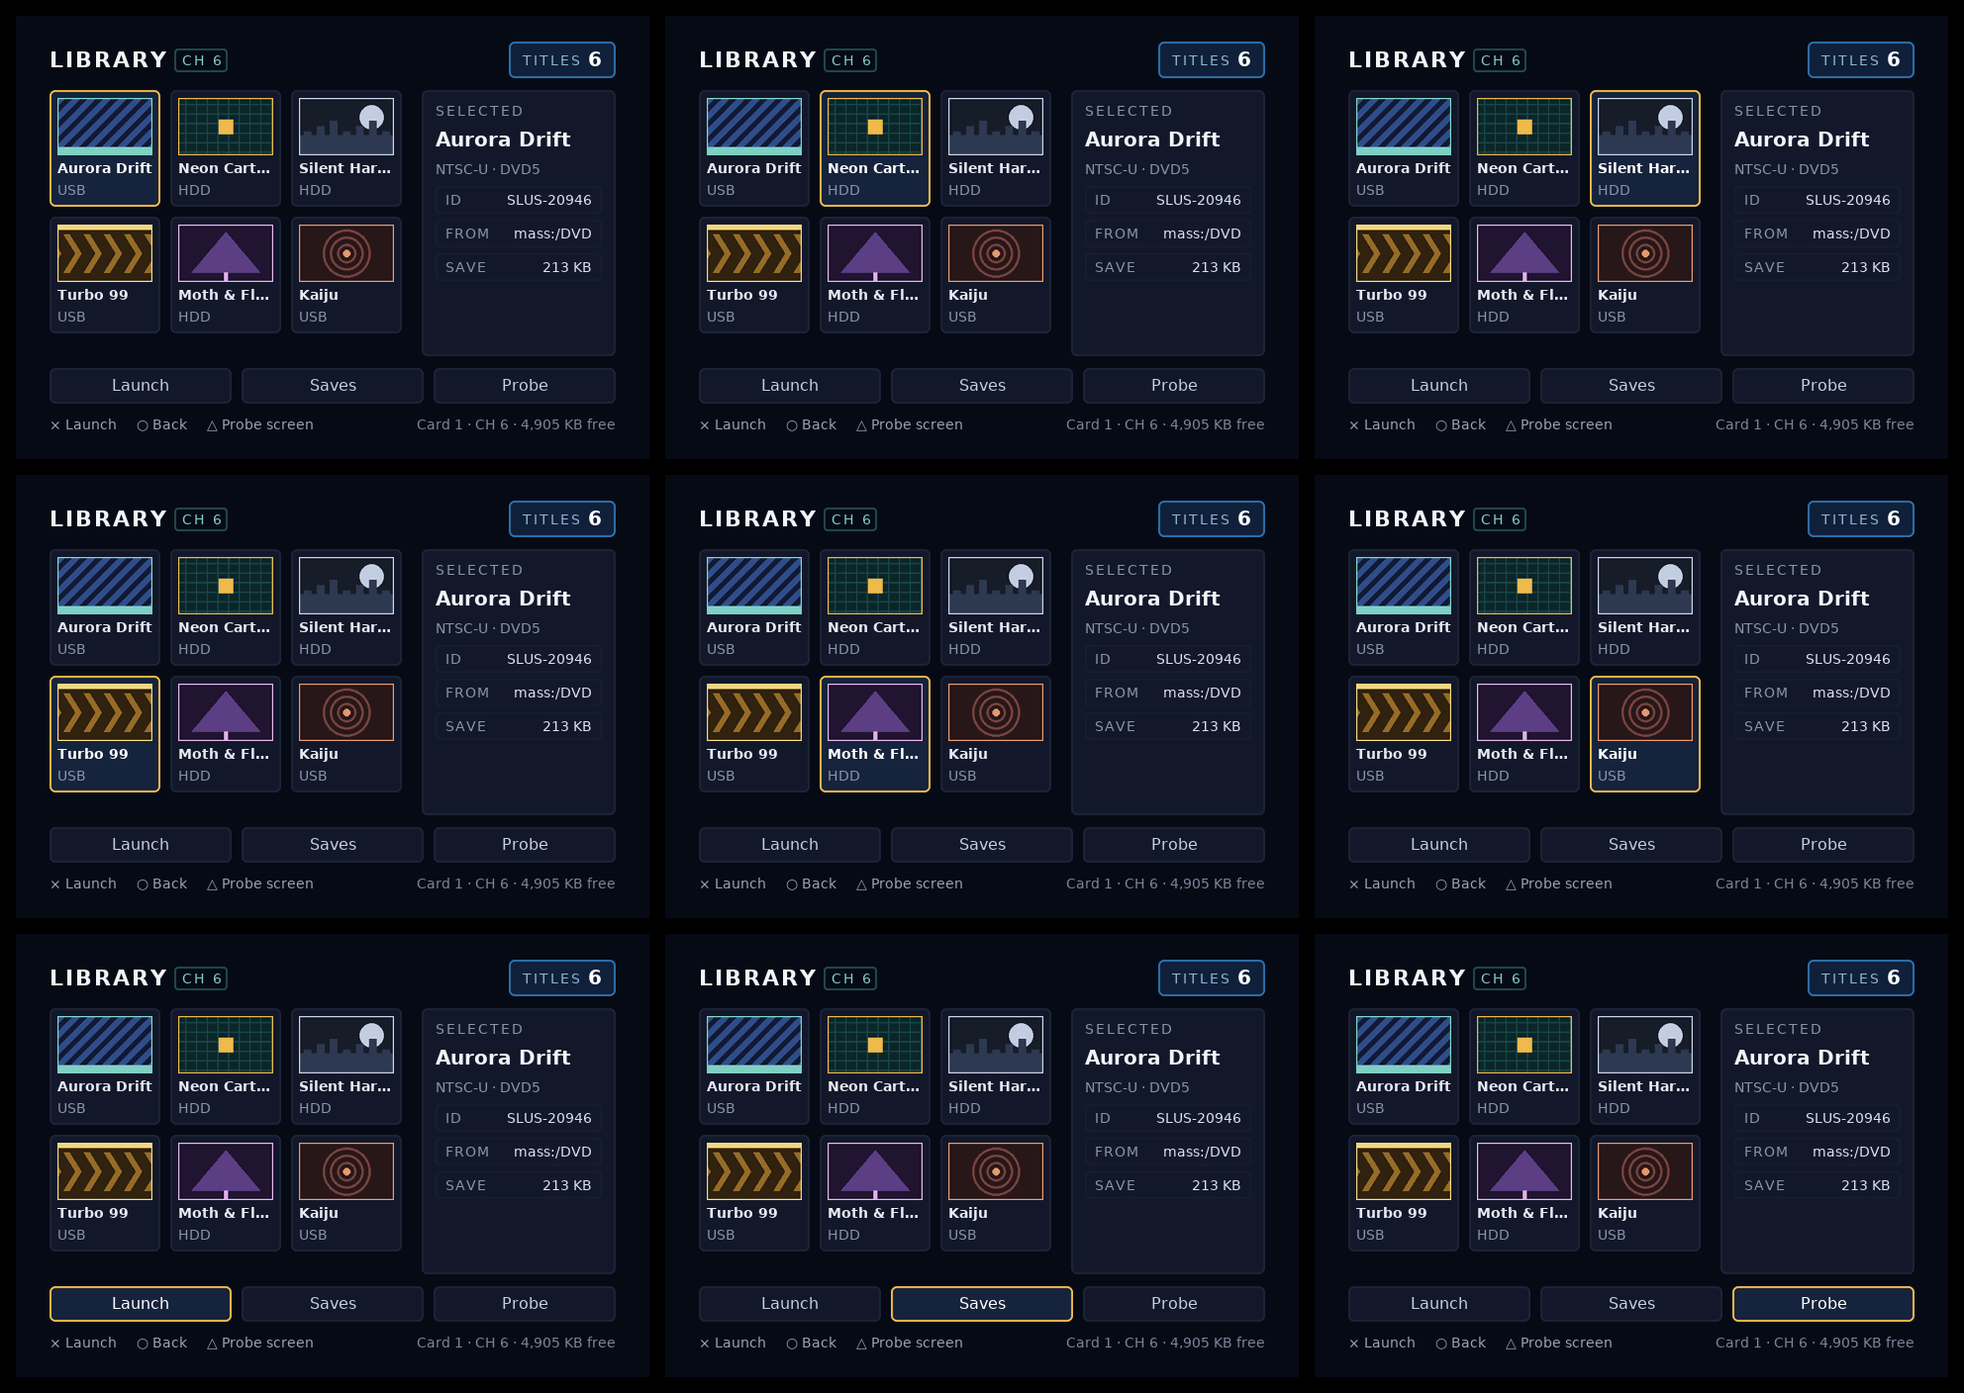
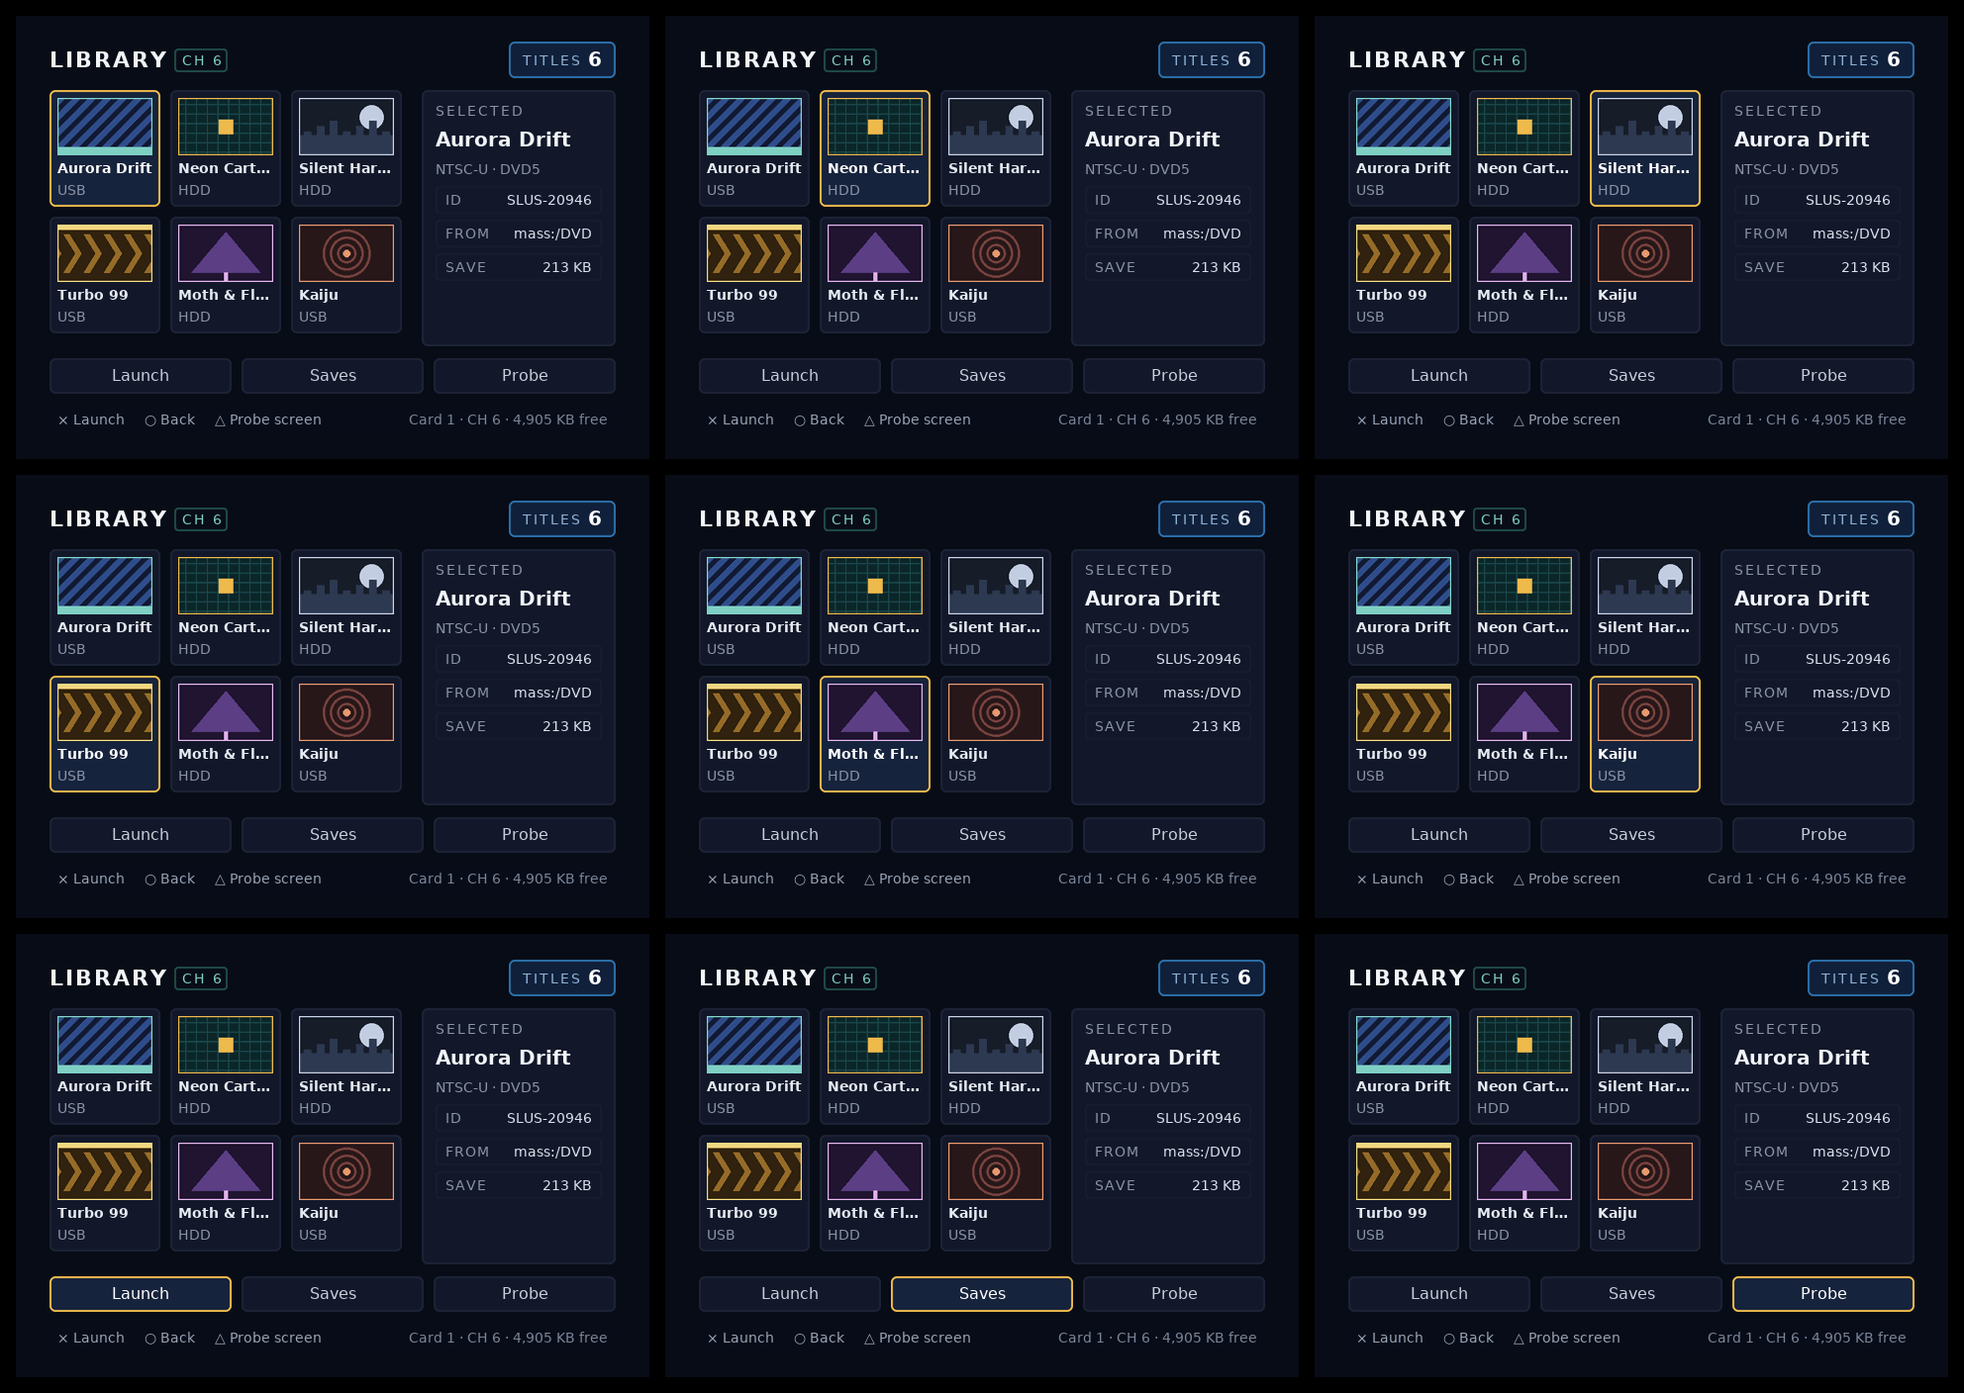
Show the channel-6 browser as the overlay it actually is
The example is meant to be the template people copy when they try this
system, and every preview it shipped rendered the blob over flat navy —
correct as bring-up ground truth, but it hid the design. This UI has no
background of its own beyond a translucent scrim; ps2ui_render() draws
into whatever is already in the framebuffer, so with the host app's
clear skipped the game stays visible underneath.

preview_in_game.py renders the blob onto full transparency and
composites it over a game frame, which is the operation the GS performs.
The frame is drawn from flat shapes rather than captured: shipping a
real game's pixels into a repository is a licensing problem, and a
synthetic frame is the better test because the bright horizon band can
be put exactly where the cover grid is.

Doing that exposed two things the flat-navy previews could not:

- The scrim was 90% opaque, which is not an overlay, it is a background
  with extra steps. Now 60%.
- The footer was the one row of text with no panel under it, and over a
  bright road it stopped being readable. It gets a backing bar, square
  so it bakes as a plain quad and costs no nine-patch texture. The rule
  the README now states: the scrim sets the mood, panels guarantee
  legibility.

Worth knowing: the CRT contrast lint composites text against the nearest
rect's raw RGB and ignores that rect's alpha, so a 60% scrim lints
identically to an opaque one. It cannot see this class of problem, which
[…]

diff --git a/examples/channel6/ui/channel6.css b/examples/channel6/ui/channel6.css
@@ -11,17 +11,17 @@
  * shimmers on an interlaced CRT), nothing below 14px, no saturated reds,
  * and :focus only ever repaints.
  *
- * Two budgets are load-bearing here, and neither is enforced by the
- * compiler: PS2UI_MAX_TEXTURES (32) and PS2UI_MAX_SLOTS (16) in
- * ps2ui.h. Every distinct rounded-box *style* bakes one nine-patch
- * texture and every distinct (size, weight) bakes one glyph atlas, so
- * this sheet deliberately reuses a handful of each rather than styling
- * every element freely. check.py fails the build if a change pushes
- * either count past what the runtime will load. */
+ * Two budgets are load-bearing here: PS2UI_MAX_TEXTURES (32) and
+ * PS2UI_MAX_SLOTS (16) in ps2ui.h. Every distinct rounded-box *style*
+ * bakes one nine-patch texture and every distinct (size, weight) bakes
+ * one glyph atlas, so this sheet deliberately reuses a handful of each
+ * rather than styling every element freely. Since B10 the baker fails
+ * the bake outright when a change would push either count past what
+ * ps2ui_load() accepts, and prints the occupancy on every build. */
 
 .screen {
   flex-direction: column;
-  background: #060a14e6;
+  background: #060a1499;
   padding: 26px 34px;
   gap: 12px;
 }
@@ -223,10 +223,17 @@ h1 {
 
 /* ------------------------------------------------------------ footer */
 
+/* The footer is the one row of text with no panel under it, so over a
+ * bright game frame it is the first thing to lose contrast. It gets its
+ * own backing bar — square, so it bakes as a plain quad and costs no
+ * nine-patch texture. This is the general rule for an overlay: the scrim
+ * sets the mood, panels guarantee legibility. */
 .footer {
   flex-direction: row;
   align-items: center;
   justify-content: space-between;
+  background: #070c18e6;
+  padding: 5px 8px;
 }
 
 .hints { flex-direction: row; gap: 20px; }

diff --git a/examples/channel6/preview_in_game.py b/examples/channel6/preview_in_game.py
@@ -1,0 +1,102 @@
+#!/usr/bin/env python3
+"""Composite the browser over a game frame, the way it actually ships.
+
+    PYTHONPATH=packages/baker python3 preview_in_game.py <ui.uib> <out.png>
+
+Every other preview in this example renders the blob over flat navy,
+which is the right ground truth for bring-up but hides the whole point of
+the design: this UI is an *overlay*. The root is a translucent scrim, the
+blob carries no background of its own beyond that, and `ps2ui_render()`
+draws straight into whatever is already in the framebuffer. If your app
+skips the `gsKit_clear()` the sample ELF does, the game stays visible
+underneath.
+
+So this renders the blob onto full transparency and composites it over a
+frame, which is exactly the operation the GS performs. The frame is drawn
+here from flat shapes rather than captured: shipping a real game's
+pixels into a repository is a licensing problem, and a synthetic frame
+makes a better test anyway because the bright horizon band lands right
+where the cover grid does, which is where a scrim that is too thin shows
+up first.
+"""
+
+import sys
+
+from PIL import Image, ImageDraw
+
+from ps2ui_bake import preview
+from ps2ui_bake.uib import read_uib
+
+HORIZON = 186
+
+
+def game_frame(w: int, h: int) -> Image.Image:
+    """A driving-game frame: dusk sky, hills, a road to the vanishing
+    point, and a corner of HUD. Bright where the UI is darkest."""
+    img = Image.new("RGBA", (w, h), (0, 0, 0, 255))
+    d = ImageDraw.Draw(img)
+
+    # Sky: deep blue up top warming to amber at the horizon.
+    top, bottom = (26, 34, 78), (232, 146, 74)
+    for y in range(HORIZON):
+        t = y / HORIZON
+        d.line([(0, y), (w, y)],
+               fill=tuple(round(a + (b - a) * t) for a, b in zip(top, bottom)) + (255,))
+    d.ellipse([w // 2 - 46, HORIZON - 62, w // 2 + 46, HORIZON + 30],
+              fill=(255, 214, 138, 255))
+
+    # Two hill ranges, the near one darker.
+    for depth, (color, amp, base) in enumerate((
+            ((92, 74, 116, 255), 26, HORIZON - 14),
+            ((44, 38, 66, 255), 16, HORIZON - 4))):
+        pts = [(0, h)]
+        for x in range(0, w + 40, 40):
+            pts.append((x, base - (amp if (x // 40 + depth) % 2 else amp // 3)))
+        pts.append((w, h))
+        d.polygon(pts, fill=color)
+
+    # Ground and a road converging on the vanishing point.
+    d.rectangle([0, HORIZON, w, h], fill=(38, 44, 40, 255))
+    vp = (w // 2, HORIZON)
+    d.polygon([vp, (w // 2 - 300, h), (w // 2 + 300, h)], fill=(58, 58, 62, 255))
+    d.polygon([vp, (w // 2 - 316, h), (w // 2 - 292, h)], fill=(226, 226, 214, 255))
+    d.polygon([vp, (w // 2 + 292, h), (w // 2 + 316, h)], fill=(226, 226, 214, 255))
+
+    # Centre dashes, crowding toward the horizon. Placed by fraction of
+    # the road's depth rather than by a shrinking step: a geometric step
+    # converges short of the horizon and loops forever.
+    depth = h - HORIZON
+    for i in range(14):
+        t = (i / 14.0) ** 2.2          # dense near the vanishing point
+        y0 = h - t * depth
+        y1 = max(HORIZON + 3, y0 - max(3.0, 26 * (1 - t)))
+        near = (y0 - HORIZON) / depth
+        half = max(1, round(5 * near))
+        inner = max(1, half - 1)
+        d.polygon([(vp[0] - half, y0), (vp[0] + half, y0),
+                   (vp[0] + inner, y1), (vp[0] - inner, y1)],
+                  fill=(226, 226, 214, 255))
+
+    # A corner of HUD, so the frame reads as a game and not a wallpaper.
+    d.rectangle([w - 148, h - 54, w - 24, h - 22], fill=(0, 0, 0, 120))
+    d.rectangle([w - 144, h - 30, w - 28, h - 26], fill=(120, 220, 190, 255))
+    d.rectangle([w - 144, h - 30, w - 74, h - 26], fill=(255, 232, 120, 255))
+    return img
+
+
+def main(uib_path: str, out_path: str) -> int:
+    uib = read_uib(uib_path)
+    frame = game_frame(uib.canvas_w, uib.canvas_h)
+    # Transparent ground: what ps2ui_render() draws, and nothing else.
+    ui = preview.render(uib, background=(0, 0, 0, 0), screen="games")
+    frame.alpha_composite(ui)
+    frame.save(out_path)
+    print(f"ps2ui-bake: in-game composite -> {out_path}", file=sys.stderr)
+    return 0
+
+
+if __name__ == "__main__":
+    if len(sys.argv) != 3:
+        print(f"usage: {sys.argv[0]} <ui.uib> <out.png>", file=sys.stderr)
+        raise SystemExit(2)
+    raise SystemExit(main(sys.argv[1], sys.argv[2]))

diff --git a/examples/channel6/check.py b/examples/channel6/check.py
@@ -10,15 +10,17 @@ Python side: it re-reads the .uib (CRC, version and feature bits are
 validated on the way in) and asserts what the console is entitled to
 assume.
 
-The first group is the one that matters most. ps2ui.h sizes its context
-struct statically — PS2UI_MAX_TEXTURES, PS2UI_MAX_SLOTS,
-PS2UI_MAX_SCREENS — and ps2ui_load() refuses a blob that exceeds any of
-them with PS2UI_ERR_TOO_MANY. Neither the layout compiler nor the baker
-knows those numbers: the baker enforces a VRAM budget, which is a
-different limit, and a blob can sit comfortably inside it while still
-being unloadable. The failure mode is the sample ELF's solid red screen
-with nothing to explain it, so the numbers are asserted here, against
-the values parsed out of ps2ui.h rather than copies of them.
+The first group covers the runtime's static table caps —
+PS2UI_MAX_TEXTURES, PS2UI_MAX_SLOTS, PS2UI_MAX_SCREENS,
+PS2UI_SLOT_BUFSZ — which ps2ui_load() enforces with PS2UI_ERR_TOO_MANY,
+and whose console symptom is the sample ELF's red screen with no
+diagnostic. Writing this example is what surfaced that gap; since B10
+the baker refuses to write an over-cap blob at all, so these four are
+now a second line of defence rather than the only one. They stay
+because they cost nothing and they assert the property from the far
+side of the file format: the baker checks what it is about to write,
+this checks what a loader will actually find. Both read the numbers out
+of ps2ui.h rather than copying them.
 """
 
 import os

diff --git a/examples/channel6/README.md b/examples/channel6/README.md
@@ -2,10 +2,17 @@
 
 The `probe` screen is this repository's conformance target for console bring-up: [docs/bringup.md](../../docs/bringup.md) maps each of its cells to the step that fails when the cell looks wrong.
 
-A two-screen `.uib` for the channel you keep your homebrew on. It exists
-to answer one question — *does this toolchain's HTML actually come out
-the other end looking like the previewer said it would?* — and to keep
+A two-screen `.uib` for the channel you keep your homebrew on, and the
+starting point this repository recommends for a new UI. It exists to
+answer one question — *does this toolchain's HTML actually come out the
+other end looking like the previewer said it would?* — and to keep
 answering it as the toolchain changes.
+
+Copy the directory, keep `build.sh` and `check.py`, replace the markup.
+The parts worth keeping are the shape of the build (layout → bake →
+per-screen previews → assert the blob), the budget discipline the
+stylesheet is built around, and the probe screen, which stays useful
+long after your own screens have replaced the browser.
 
 | screen | file | what it is |
 |--------|------|------------|
@@ -16,8 +23,24 @@ Both compile against one stylesheet, [ui/channel6.css](ui/channel6.css),
 and bake into one blob that shares its textures, atlases and font tables
 across the two screens.
 
+It is an **overlay**, so that is how it should be judged. The blob has no
+background of its own beyond a translucent scrim, and `ps2ui_render()`
+draws straight into the framebuffer — skip the `gsKit_clear()` the sample
+ELF does, and the game underneath stays visible:
+
+![the browser composited over a game frame](screenshots/in-game.png)
+
+Over flat navy, which is the ground truth every bring-up step compares
+against:
+
 ![games screen](screenshots/games.png)
 ![probe screen](screenshots/probe.png)
+
+The game frame is drawn from flat shapes by
+[preview_in_game.py](preview_in_game.py), not captured — shipping a real
+game's pixels into a repository is a licensing problem, and a synthetic
+frame is the better test anyway because you can put the bright band
+exactly where the UI is darkest.
 
 ## What the device actually does, and what it doesn't
 
@@ -63,19 +86,26 @@ Writes into `examples/channel6/build/`:
 | `ui.uib` | the console blob — both screens, 22 textures, 43% of the default VRAM budget |
 | `preview.png` / `states.png` | the games screen, and every one of its 9 focus states on one sheet |
 | `probe.png` / `probe-states.png` | the same pair for the probe screen |
+| `in-game.png` | the browser composited over a synthetic game frame |
 | `games.json` / `probe.json` | the IR, if you need to look at what layout decided |
 
 Then it runs [check.py](check.py), which re-reads the blob and asserts
 its contract in TAP — 24 checks; a red one names what broke.
 
-Three `charset` warnings are expected and deliberate — they are the ×, ○
-and △ face-button glyphs in the footer hints, which is exactly the
-codepoint range the linter is unsure about. Any *other* warning is news.
+The build is expected to be **silent**. Earlier revisions emitted three
+`charset` warnings for the ×, ○ and △ face-button glyphs in the footer
+hints; B13 whitelisted those ranges and gave them real metrics, so any
+warning at all is now news.
 
-### The budget the compiler does not enforce
+### The runtime's table caps
 
 `ps2ui.h` sizes the runtime context statically, and `ps2ui_load()`
-rejects anything past those bounds with `PS2UI_ERR_TOO_MANY`:
+rejects anything past those bounds with `PS2UI_ERR_TOO_MANY`. Every bake
+prints where you stand:
+
+```
+runtime tables: 22/32 textures, 15/16 slots, 2/8 screens
+```
 
 | cap | value | this blob |
 |-----|-------|-----------|
@@ -84,19 +114,18 @@ rejects anything past those bounds with `PS2UI_ERR_TOO_MANY`:
 | `PS2UI_MAX_SCREENS` | 8 | 2 |
 | `PS2UI_SLOT_BUFSZ` | 96 | 30 max |
 
-Nothing upstream checks these. The baker enforces a *VRAM* budget, which
-is a different limit — a blob can sit at 43% of VRAM and still be
-unloadable because it declared a seventeenth slot. On hardware that is a
-red screen with no explanation, so `check.py` asserts all four, reading
-the numbers out of `ps2ui.h` rather than copying them.
+Writing this example is what surfaced the gap: an earlier revision
+declared **seventeen** slots, and it laid out, baked, previewed and
+passed every check while `ps2ui_load()` would have rejected it — the
+sample ELF's red screen with nothing to explain it. The VRAM budget did
+not catch it because that is a different limit; the blob sat at 43% of
+VRAM and was still unloadable. Since B10 the baker parses the caps out
+of `ps2ui.h` and refuses to write the file, naming the count and where
+to raise it. `check.py` still asserts all four from the far side of the
+format, which is cheap and independent.
 
-The counts are why the stylesheet looks the way it does. Every distinct
-rounded-box *style* bakes one nine-patch texture and every distinct
-(size, weight) pair bakes one glyph atlas, so the sheet deliberately
-reuses one panel style, one focus style and five atlases across both
-screens. Six covers cost six more textures; the alpha ladder and the
-flex bars are square on purpose, because rounding them would have cost
-seven textures to prove something the RADIUS cell already proves.
+The counts are why the stylesheet looks the way it does — see the
+[design notes](#deliberate-choices-worth-keeping) below.
 
 ## Getting it onto channel 6
 
@@ -136,6 +165,24 @@ ps2ui_load(&ui, ui_uib, size_ui_uib);
 ps2ui_upload(&ui, gs);
 ps2ui_screen_set(&ui, "probe");   /* or "games" */
 ```
+
+### Drawing it as an overlay
+
+The sample ELF clears every frame, which is what you want while you are
+proving the GS path. To get `in-game.png` instead, draw your scene and
+then call `ps2ui_render()` without clearing in between:
+
+```c
+render_my_game(gs);           /* whatever is underneath */
+if (ui_visible)
+    ps2ui_render(&ui, gs);    /* composites over it, no clear */
+gsKit_queue_exec(gs);
+gsKit_sync_flip(gs);
+```
+
+`ps2ui_render()` never clears and never touches the Z buffer, so the two
+compose in paint order. Toggle `ui_visible` on your menu button and the
+overlay costs nothing on the frames it is hidden.
 
 ## Reading the probe screen
 
@@ -193,11 +240,27 @@ costs five `strncpy`s per D-pad press.
 
 ## Deliberate choices worth keeping
 
-- **The root is a translucent scrim** (`#060a14e6`), not an opaque fill.
-  The blob is meant to be replayed over whatever the host app already
-  drew, so the alpha path is under test from the first quad. The
-  previewer composites it over the same dark navy the sample ELF clears
-  to, which is why the PNGs and a console frame should match.
+- **The root is a translucent scrim** (`#060a1499`, 60%), not an opaque
+  fill. The blob is meant to be replayed over whatever the host app
+  already drew, so the alpha path is under test from the first quad. 60%
+  is a judgement call you should expect to retune: heavier and the game
+  disappears, lighter and the text on the scrim starts to struggle over
+  bright content. The rule that survives retuning is **the scrim sets
+  the mood, panels guarantee legibility** — every string here sits on an
+  opaque panel except the footer, which is why the footer grew a backing
+  bar of its own (square, so it costs no nine-patch texture).
+- **One panel style, one focus style, five glyph atlases.** Every
+  distinct rounded-box style bakes a nine-patch texture and every
+  distinct (size, weight) pair bakes an atlas, so tiles, the detail
+  column, the action buttons and the probe cells all share one look on
+  purpose. Six covers cost six textures; the alpha ladder and flex bars
+  are square because rounding them would have cost seven more to prove
+  what the RADIUS cell already proves. That is what keeps 22/32.
+- **The CRT contrast lint cannot see this.** It composites text against
+  the nearest rect's raw RGB and ignores that rect's alpha, so a scrim
+  at 60% lints identically to one at 100%. Over a bright game frame the
+  real contrast is worse than the linter believes. Judge the overlay
+  from `in-game.png`, not from the lint being quiet.
 - **The browser does not wrap, the probe screen does.** One
   `--focus-wrap` flag, both of its behaviours, checked in `check.py`.
   Walking off the cover grid dead-ends on purpose: a stuck D-pad should
